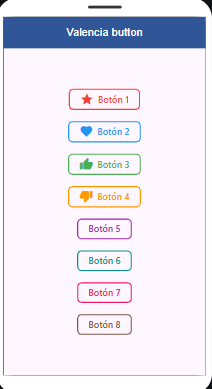
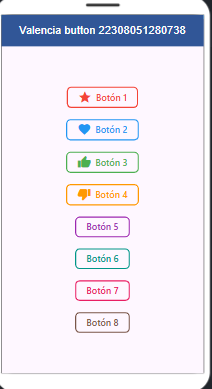
p11

Changed region(s): [[0.0, 0.0, 1.0, 1.0], [0.3113, 0.2159, 0.6792, 0.8638]]

diff --git a/lib/main.dart b/lib/main.dart
@@ -11,7 +11,7 @@ class MyApp extends StatelessWidget {
       debugShowCheckedModeBanner: false,
       home: Scaffold(
         appBar: AppBar(
-          title: const Text("Valencia button"),
+          title: const Text("Valencia button 22308051280738"),
           centerTitle: true,
           titleTextStyle:
               const TextStyle(color: Color(0xffffffff), fontSize: 20),
